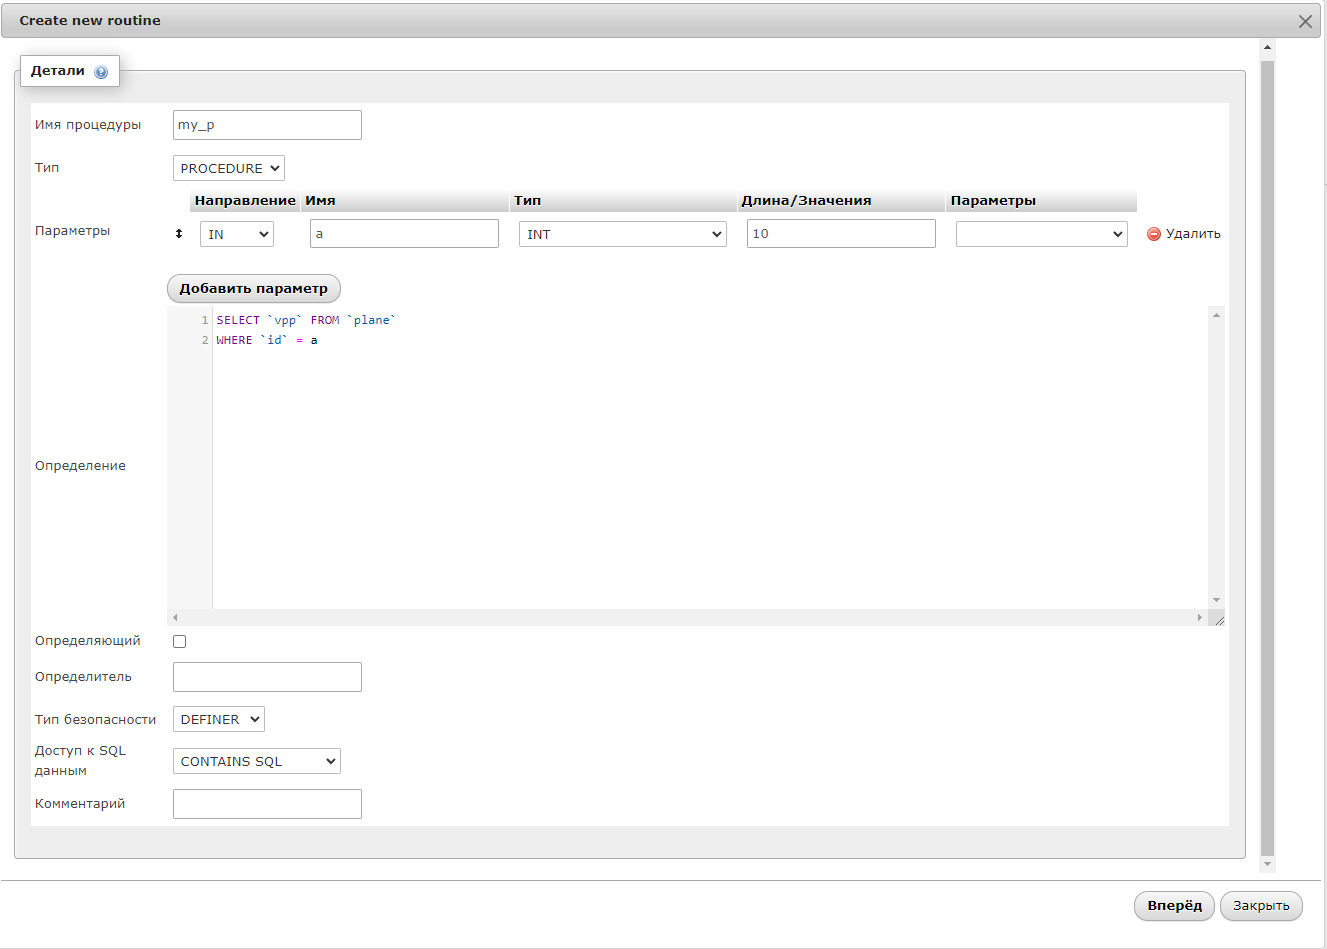
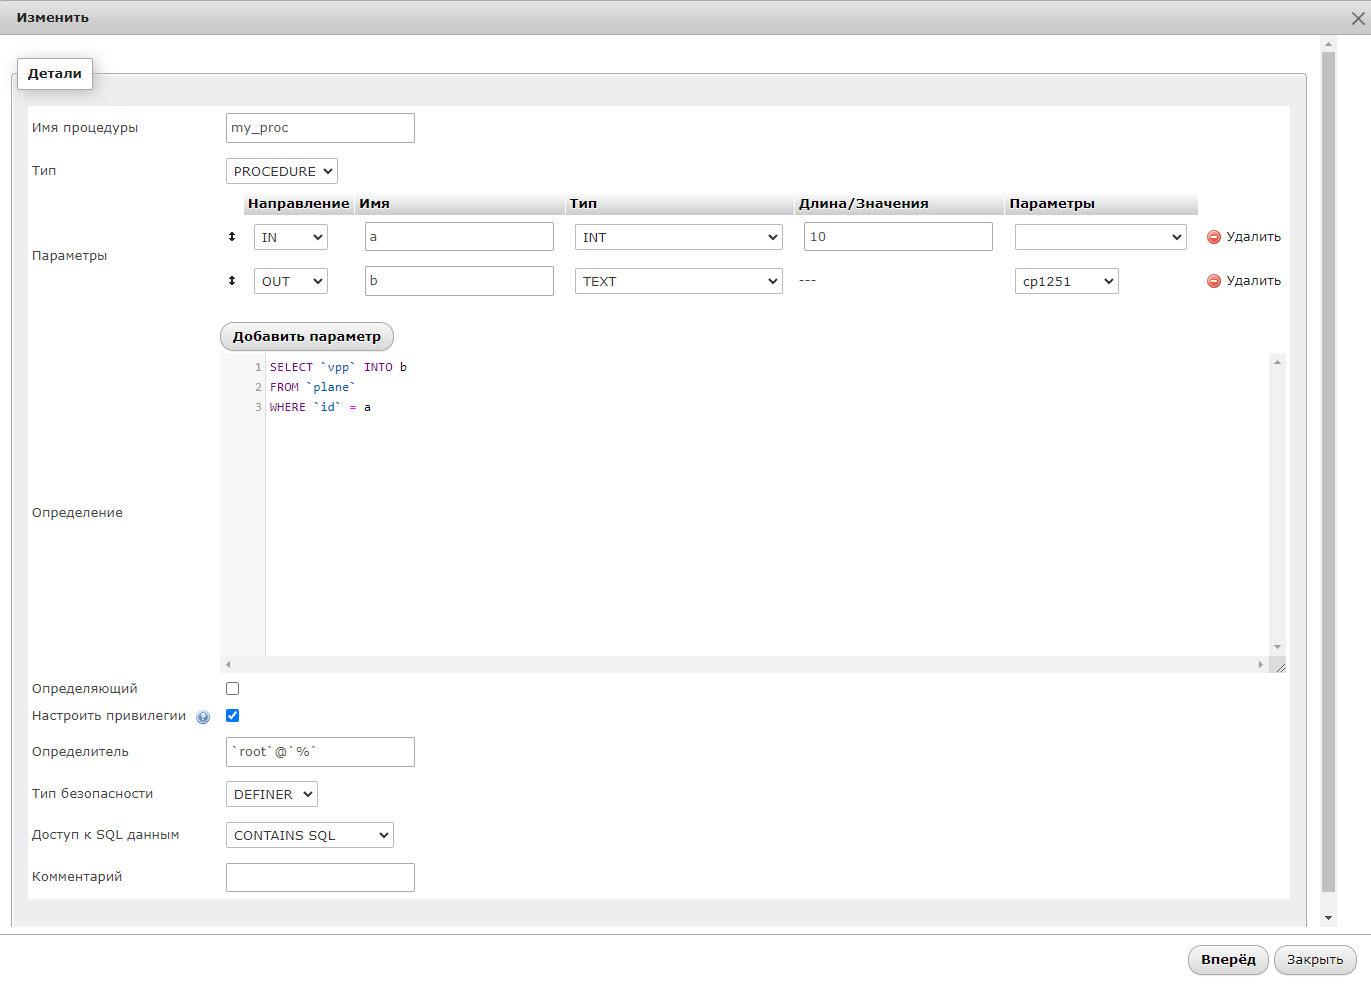
lesson 18. IN/OUT в процедуре и работа с локальной переменной

diff --git a/1.php b/1.php
@@ -8,13 +8,18 @@ $database = 'testDB';
 $connect = mysqli_connect($host, $username , $password, $database);
 
 
-$sql = "CALL `my_p`(76);";
+$sql = "CALL `my_proc`(76 , @q);";
 
 $res = mysqli_query($connect , $sql);
 
 
-while ($row = $res->fetch_assoc()) {
-    echo $row['vpp']."<br>";
+$sql2 = "SELECT `dlina` FROM `plane`
+         WHERE `vpp` = @q;";
+
+$res2 = mysqli_query($connect , $sql2);
+
+while ($row = $res2->fetch_assoc()) {
+    echo $row['dlina']."<br>";
     echo "<br>";
 
 }
